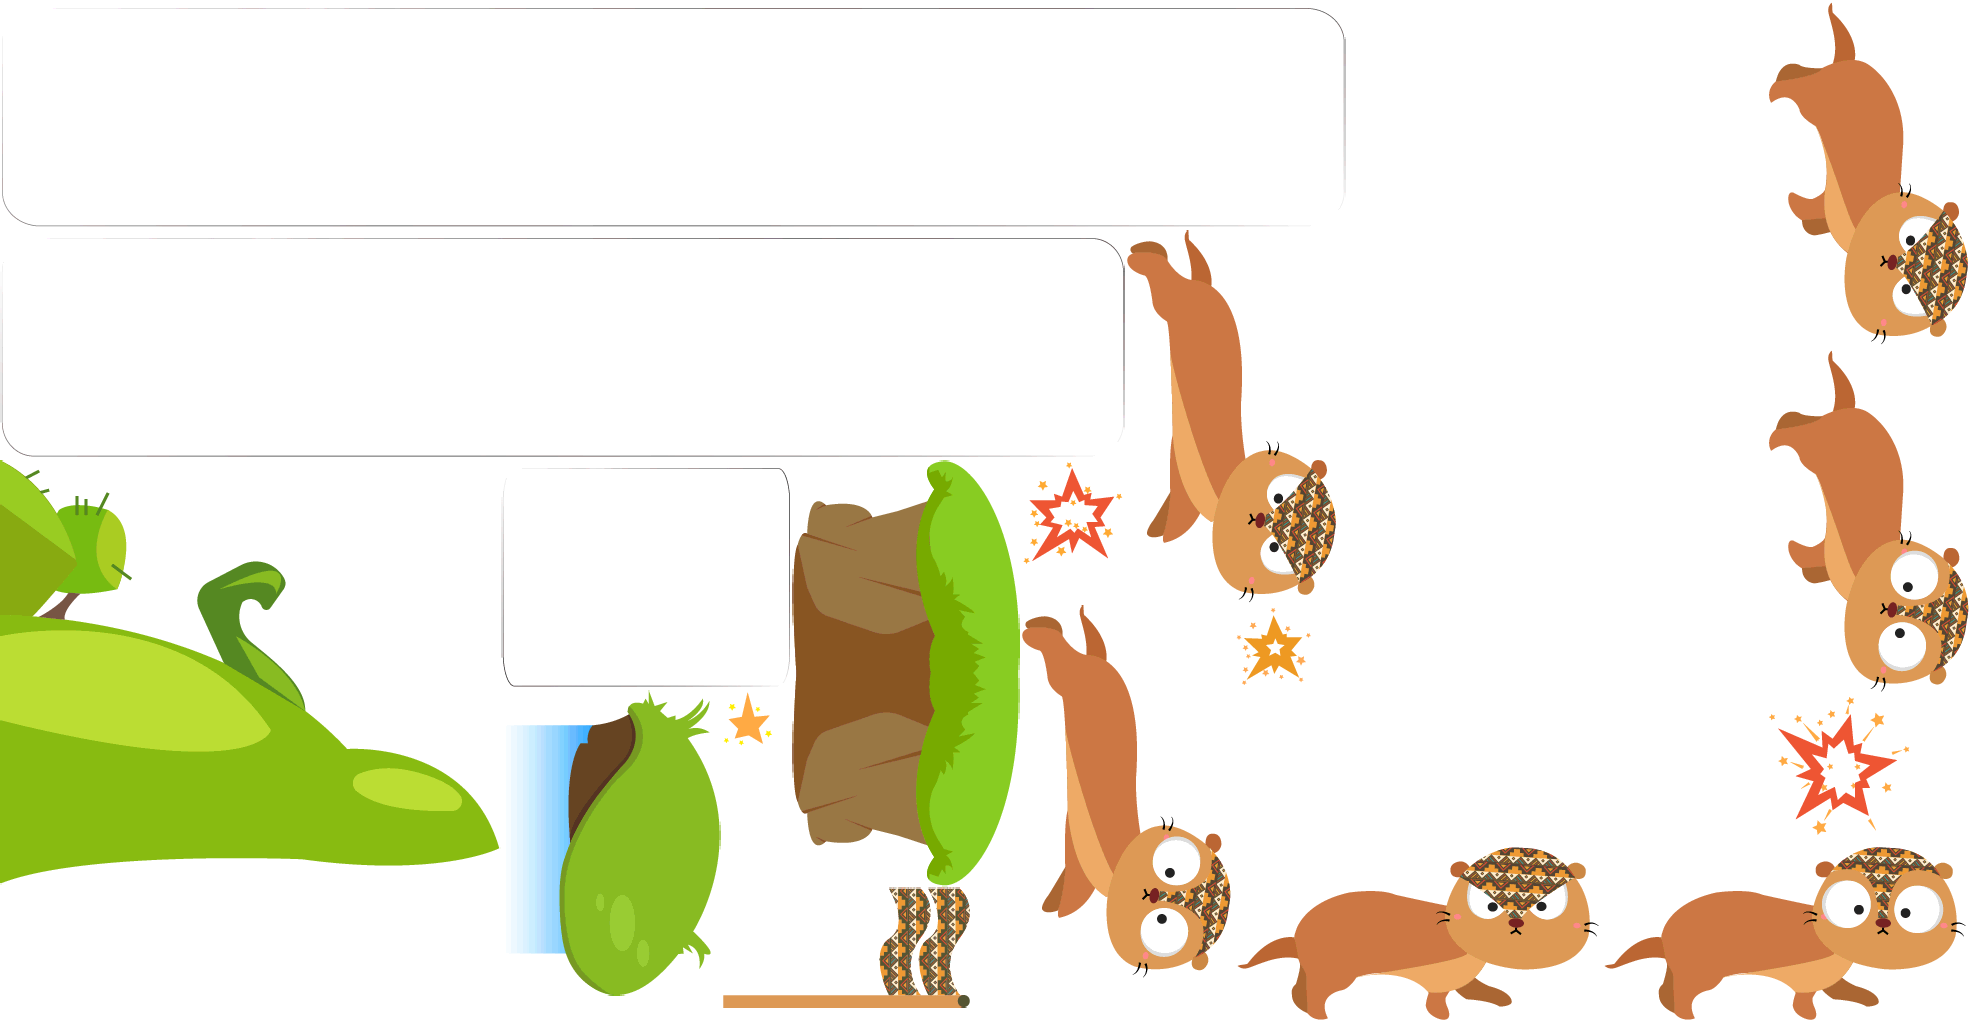
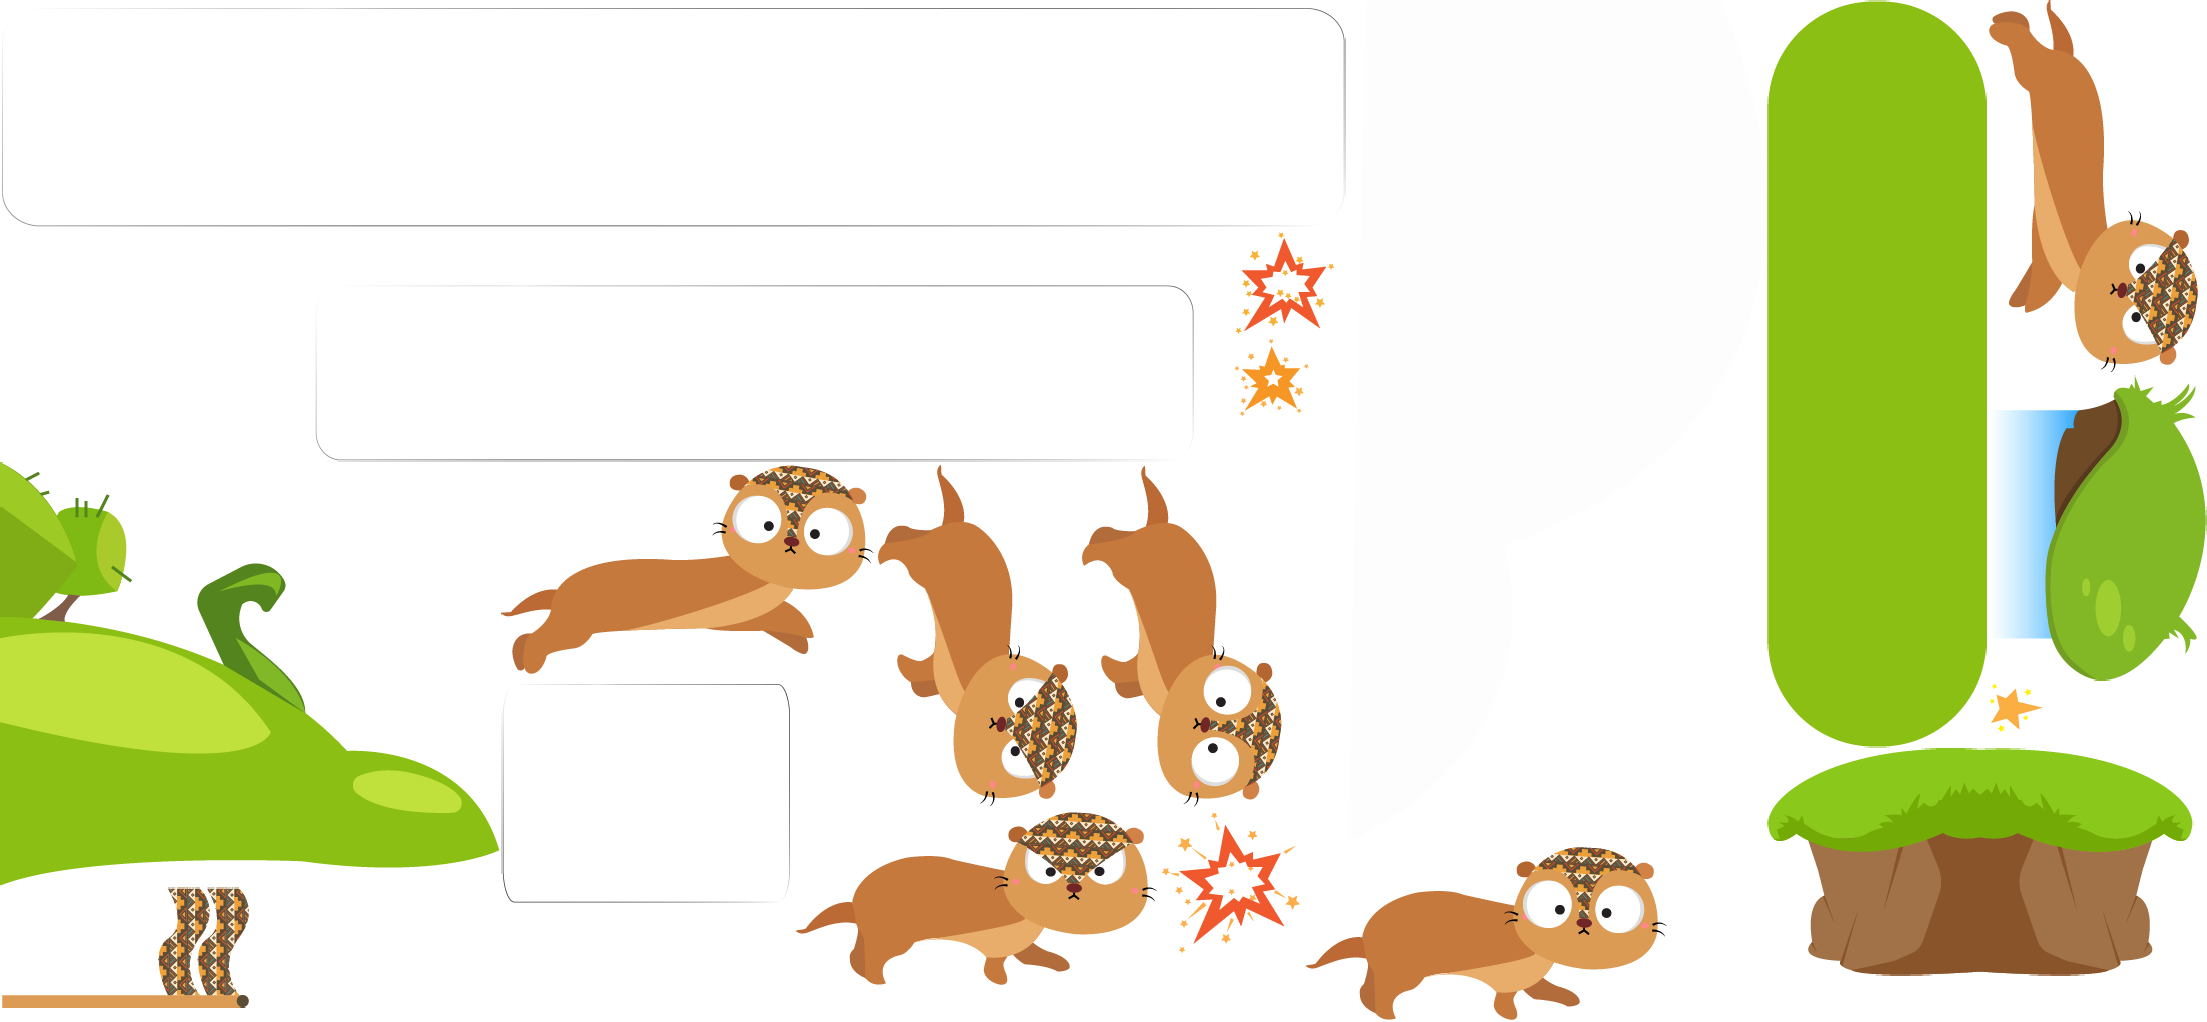
Dash level scene added

diff --git a/goa/frameworks/runtime-src/Classes/mini_games/Dash.cpp b/goa/frameworks/runtime-src/Classes/mini_games/Dash.cpp
@@ -81,7 +81,8 @@ bool Dash::init()
 				   { "character", "dash/character.csb"},
 				   { "right_animation", "jumping"},
 				   { "wrong_animation", "sad_wrong"},
-				   { "winning_animation","dance"}
+				   { "winning_animation","dance"},
+				   { "board","dash/big_button.png" }
 			   }},
 		   {"iceLand",  //anu designs
 			   {
@@ -94,7 +95,8 @@ bool Dash::init()
 				   { "character", "dashisland/character.csb" },
 				   { "right_animation", "hero_correct" },
 				   { "wrong_animation", "hero_wrong" },
-				   {"winning_animation", "null"}
+				   {"winning_animation", "null"},
+				   { "board","dashisland/board.png" }
 			   }},
 		   {"candy",  //teju design
 			   {
@@ -107,7 +109,8 @@ bool Dash::init()
 				   { "character", "dashcandy/character.csb" },
 				   { "right_animation", "jump" },
 				   { "wrong_animation", "angry" },
-				   { "winning_animation", "null" }
+				   { "winning_animation", "null" },
+				   { "board","dashcandy/answer_button.png" }
 			   }},
 	};
 	
@@ -158,6 +161,11 @@ bool Dash::init()
 			}
 		}
 	}
+
+	auto board = Sprite::createWithSpriteFrameName(_scenePath.at("board"));
+	board->setPositionY(visibleSize.height - board->getContentSize().height / 2);
+	board->setPositionX(visibleSize.width / 2);
+	this->addChild(board);
 
 	_character = CSLoader::createNode(_scenePath.at("character"));
 	_character->setPositionX((visibleSize.width / 5) + step_width / 2);
@@ -231,14 +239,23 @@ void Dash::onEnterTransitionDidFinish()
 {
 	Node::onEnterTransitionDidFinish();
 	int level = menu->getCurrentLevel();
-	int division = (level % 15)+1;
+	int division = ((level - 1) % 15)+1;
 	if (division >= 1 && division < 6) {
+		int roundLevel = (level / 15) + 1;
+		int inner = division + ((roundLevel - 1) * 5);
+		CCLOG("Sysnonyms Level = %d", inner);
 		_synonyms = TextGenerator::getInstance()->getSynonyms(10);
 	} 
 	else if (division >5 && division < 11) {
+		int roundLevel = (level / 15) + 1;
+		int inner = division - 5 + ((roundLevel - 1) * 5);
+		CCLOG("Antonyms Level = %d", inner);
 		_synonyms = TextGenerator::getInstance()->getAntonyms(10);
 	}
 	else {
+		int roundLevel = (level / 15) + 1;
+		int inner = division - 10 + ((roundLevel - 1) * 5);
+		CCLOG("Homonyms Level = %d", inner);
 		_synonyms = TextGenerator::getInstance()->getHomonyms(10);
 	}
 	
